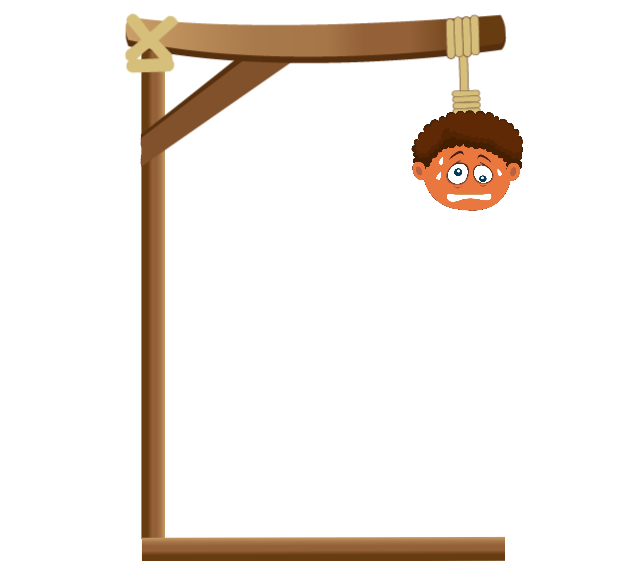
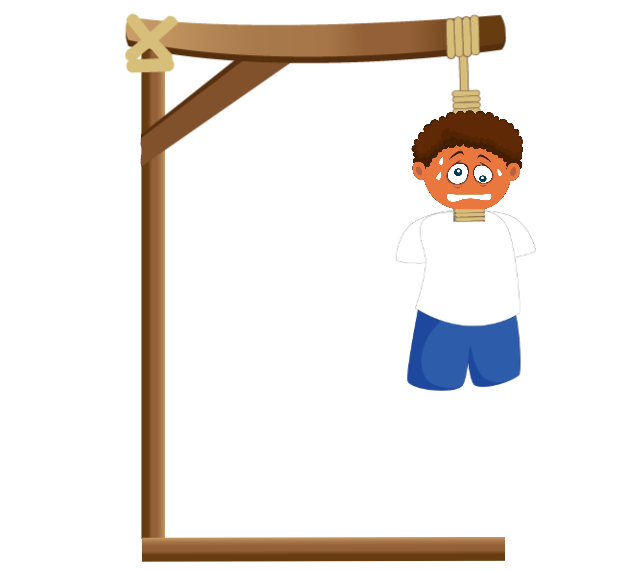
avanzamos con las fotos

Changed region(s): [[0.6333, 0.5359, 0.8444, 0.6848], [0.6937, 0.3573, 0.7841, 0.387]]

diff --git a/js/script.js b/js/script.js
@@ -1,63 +1,74 @@
-"use strict";
-const palabras = ["MANZANA", "BANANA", "ELEFANTE", "casa", "PERRO"];
+'use strict';
+const palabras = ['MANZANA', 'BANANA', 'ELEFANTE', 'casa', 'PERRO'];
+const btnJugar = document.getElementById('jugar');
+btnJugar.addEventListener('click', iniciar);
 
-//Seleccionar una palabra al azar de la lista
-let palabra = palabras[Math.floor(Math.random()*palabras.length)];
+function iniciar(event) {
+  //Seleccionar una palabra al azar de la lista
+  let palabra = palabras[Math.floor(Math.random() * palabras.length)];
 
-// Variables de juego
-let letrasAdivinadas = [];
-let intentos = 6;
+  // Variables de juego
+  let letrasAdivinadas = [];
+  let intentos = 6;
+  let fallos = 0;
 
+  // Elementos HTML
+  const palabraHtml = document.getElementById('palabra');
+  const letrasBtn = document.querySelectorAll('#letras button');
 
-// Elementos HTML 
-const palabraHtml = document.getElementById("palabra");
-const letrasBtn = document.querySelectorAll("#letras button");
-
-
-// Función para mostrar la palabra oculta
-function mostrarPalabra() {
-let palabraOculta = "";
-for (let i = 0; i < palabra.length; i++) {
-    if (letrasAdivinadas.includes(palabra[i])) {
-    palabraOculta += palabra[i] + " ";
-    } else {
-    palabraOculta += "_ ";
+  // Función para mostrar la palabra oculta
+  function mostrarPalabra() {
+    let palabraOculta = '';
+    for (let i = 0; i < palabra.length; i++) {
+      if (letrasAdivinadas.includes(palabra[i])) {
+        palabraOculta += palabra[i] + '';
+      } else {
+        palabraOculta += '_ ';
+      }
     }
-}
-palabraHtml.textContent = palabraOculta;
-}
+    palabraHtml.textContent = palabraOculta;
+  }
 
-//////////////////////////////////////////////
+  function mostrarImagenAhorcado() {
+    const imagenAhorcado = document.querySelector('img');
+    imagenAhorcado.setAttribute('src', `./imagenes/ahorcado0${fallos}.png`);
+  }
 
-
-
-function verificarLetra(letra) {
-    letra = letra.toUpperCase();// No se porque no me funciona con minusculas :'(
+  function verificarLetra(target) {
+    const letra = target.textContent.toUpperCase();
+    // transformo la palabra en uppercase
+    palabra = palabra.toUpperCase();
 
     if (letrasAdivinadas.includes(letra)) {
-        return;
+      return;
     }
 
     if (palabra.includes(letra)) {
-        letrasAdivinadas.push(letra);
+      letrasAdivinadas.push(letra);
     } else {
-        intentos--;
+      intentos--;
+      fallos++;
+      if (fallos <= 6) {
+        mostrarImagenAhorcado();
+        target.classList.add('teclaErronea');
+      }
     }
 
     mostrarPalabra();
 
     if (intentos === 0) {
-        console.log("¡Has perdido! La palabra era: " + palabra);
-    } else if (!palabraHtml.textContent.includes("_")) {
-        console.log("¡Has ganado! La palabra es: " + palabra);
+      console.log('¡Has perdido! La palabra era: ' + palabra);
+    } else if (!palabraHtml.textContent.includes('_')) {
+      console.log('¡Has ganado! La palabra es: ' + palabra);
     }
-}
+  }
 
-mostrarPalabra();
+  mostrarPalabra();
 
-letrasBtn.forEach((btn) => {
-    btn.addEventListener("click", () => {
-        const letra = btn.textContent;
-        verificarLetra(letra);
+  letrasBtn.forEach((btn) => {
+    btn.addEventListener('click', (e) => {
+      const target = e.target;
+      verificarLetra(target);
     });
-});
+  });
+}

diff --git a/index.html b/index.html
@@ -9,9 +9,9 @@
   <body>
     <h1>JUEGO DEL AHORACADO</h1>
     <h2>Haga click en JUGAR para empezar</h2>
-    <button>JUGAR</button>
-    <h3 id="palabra"></h3>
-    <img src="./imagenes/ahorcado01.png" alt="" />
+    <button id="jugar">JUGAR</button>
+    <p id="palabra"></p>
+    <img src="./imagenes/ahorcado.png" alt="" />
       <section id="letras">
         <button id="a">a</button>
         <button id="b">b</button>

diff --git a/css/style.css b/css/style.css
@@ -9,7 +9,6 @@ body {
   justify-content: center;
 }
 img {
-  margin-top: 20px;
   max-width: 100vw;
   height: auto;
 }
@@ -33,8 +32,14 @@ h2 {
   margin-top: 1px;
 }
 
-h3 {
+p {
   letter-spacing: 6px;
   font-size: 3rem;
-  margin: 1rem;
+  margin-top: 2rem;
+  margin-bottom: 1rem;
+  height: 3rem;
+}
+
+#letras button.teclaErronea{
+  background-image: url("../imagenes/tecla2_over.png");
 }
